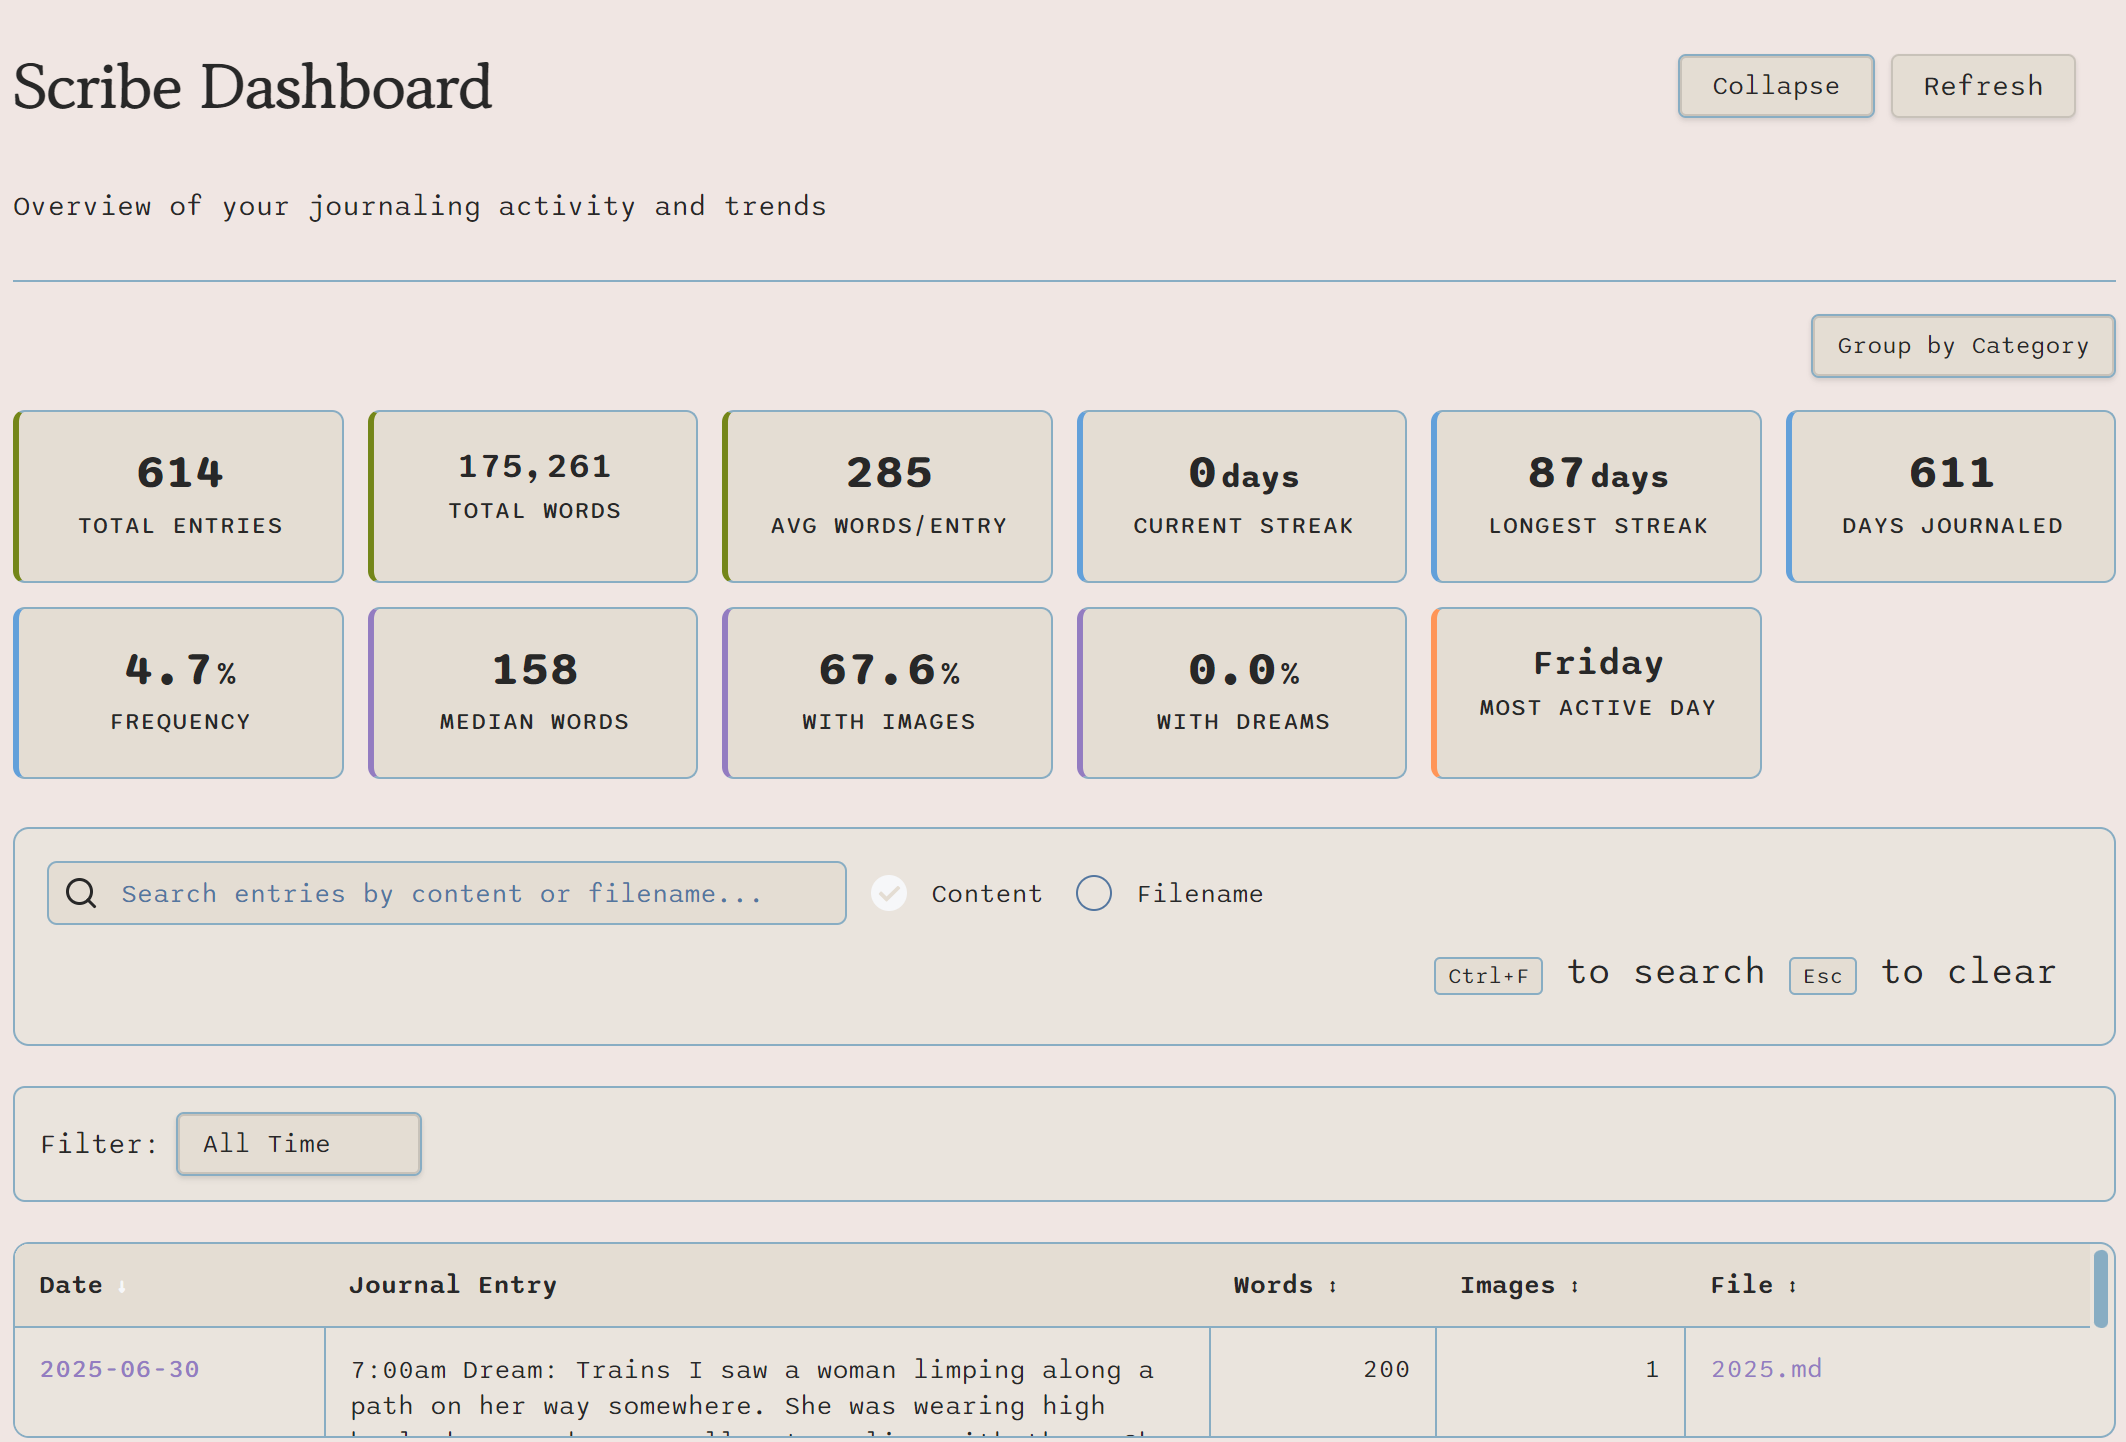
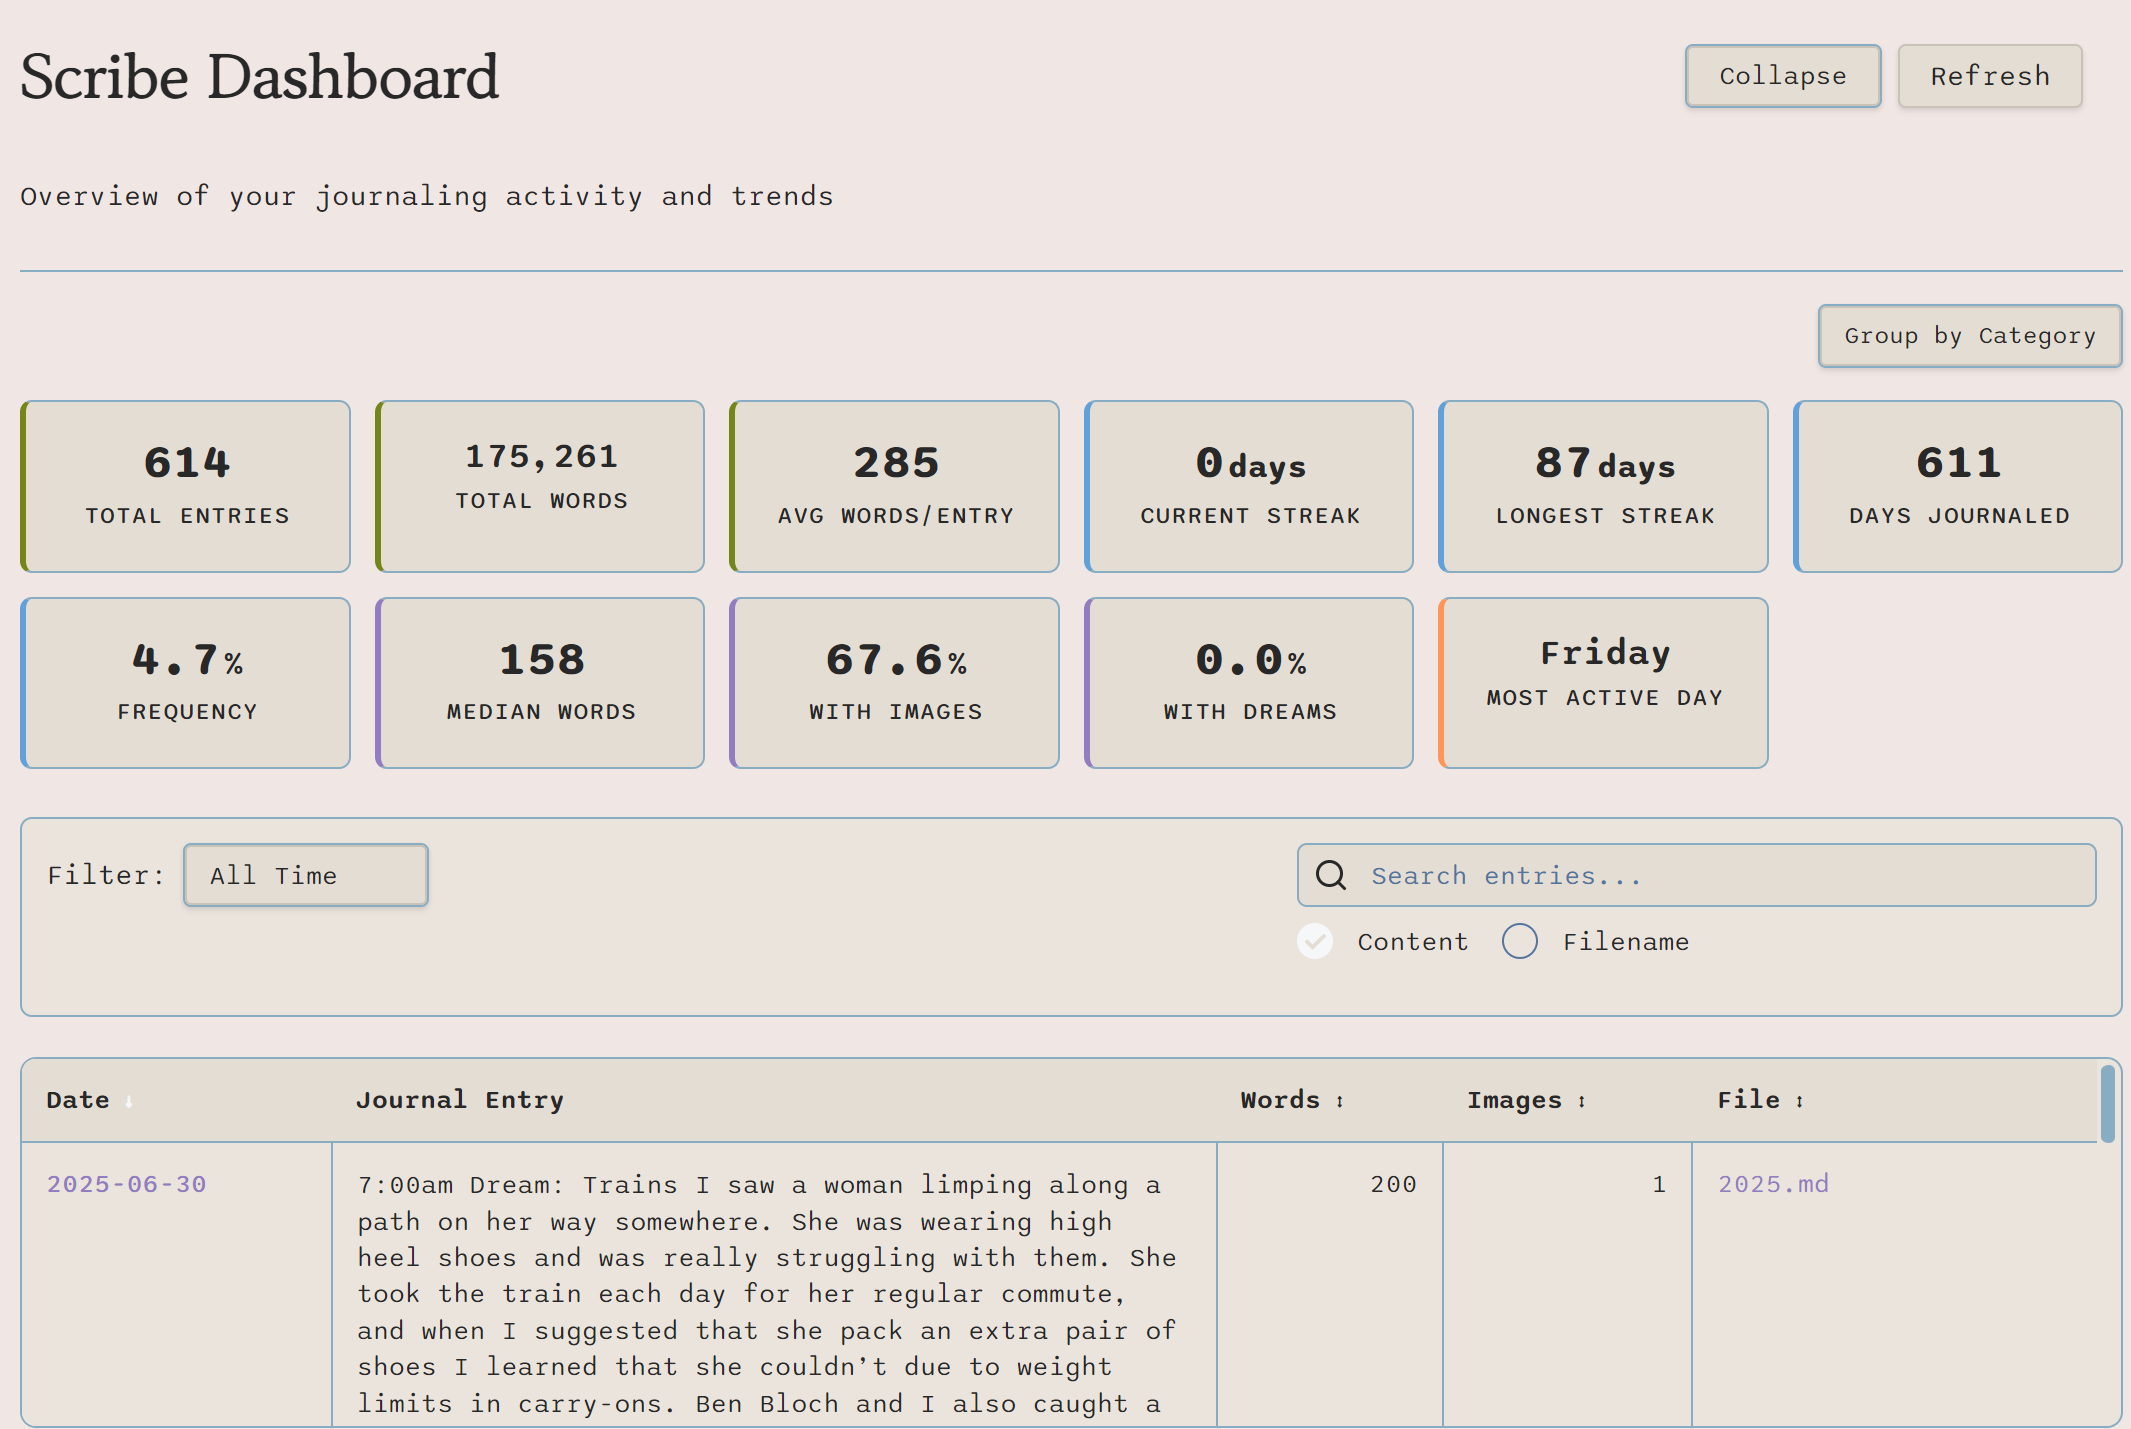
Integrate search into dashboard controls and ensure always visible
- Move search functionality from separate section into controls bar alongside date filter
- Create horizontal layout with filter on left, search on right
- Remove conditional visibility - search now always accessible regardless of header state
- Clean up redundant CSS rules for old standalone search section
- Update responsive design for new integrated layout
- Improve space efficiency and visual organization

diff --git a/src/views/DashboardView.ts b/src/views/DashboardView.ts
@@ -77,12 +77,7 @@ export class DashboardView extends ItemView {
             }
         }
         
-        // Render search section (only if header not collapsed)
-        if (!this.state.headerCollapsed) {
-            this.renderSearchSection(container);
-        }
-        
-        // Render controls
+        // Render controls (includes search if header not collapsed)
         this.renderControls(container);
         
         // Render table
@@ -171,18 +166,73 @@ export class DashboardView extends ItemView {
         });
     }
     
-    private renderSearchSection(container: HTMLElement): void {
-        const searchSection = container.createDiv('sfp-search-section');
+    
+    private updateSearchResultsDisplay(resultsElement: HTMLElement): void {
+        if (this.state.searchQuery) {
+            const count = this.state.searchResults.length;
+            resultsElement.textContent = `${count} result${count !== 1 ? 's' : ''} for "${this.state.searchQuery}"`;
+            resultsElement.classList.add('has-results');
+        } else {
+            resultsElement.textContent = '';
+            resultsElement.classList.remove('has-results');
+        }
+    }
+
+    private renderControls(container: HTMLElement): void {
+        const controls = container.createDiv('sfp-dashboard-controls');
         
+        // Left side: Date filter dropdown
+        const filterContainer = controls.createDiv('filter-container');
+        filterContainer.createEl('label', { text: 'Filter: ' });
+        
+        const select = filterContainer.createEl('select');
+        const filterOptions = [
+            { value: DateFilter.ALL_TIME, label: 'All Time' },
+            { value: DateFilter.TODAY, label: 'Today' },
+            { value: DateFilter.THIS_WEEK, label: 'This Week' },
+            { value: DateFilter.THIS_MONTH, label: 'This Month' },
+            { value: DateFilter.LAST_30_DAYS, label: 'Last 30 Days' },
+            { value: DateFilter.THIS_YEAR, label: 'This Year' }
+        ];
+        
+        filterOptions.forEach(option => {
+            const optionEl = select.createEl('option', { 
+                value: option.value, 
+                text: option.label 
+            });
+            if (option.value === this.state.currentFilter) {
+                optionEl.selected = true;
+            }
+        });
+        
+        select.addEventListener('change', () => {
+            this.state.currentFilter = select.value as DateFilter;
+            this.applyFiltersAndSearch();
+            this.renderTable(container);
+        });
+
+        // Right side: Search section (always visible)
+        this.renderSearchInControls(controls, container);
+        
+        // Add refresh event listener
+        container.addEventListener('refresh', () => {
+            this.refresh();
+        });
+        
+        // Add keyboard shortcuts
+        this.setupKeyboardShortcuts(select);
+    }
+
+    private renderSearchInControls(controls: HTMLElement, container: HTMLElement): void {
         // Search container
-        const searchContainer = searchSection.createDiv('sfp-search-container');
+        const searchContainer = controls.createDiv('sfp-search-container');
         
         // Search input wrapper
         const searchInputWrapper = searchContainer.createDiv('sfp-search-input-wrapper');
         
         // Create Obsidian's native SearchComponent
         const searchComponent = new SearchComponent(searchInputWrapper);
-        searchComponent.setPlaceholder('Search entries by content or filename...');
+        searchComponent.setPlaceholder('Search entries...');
         if (this.state.searchQuery) {
             searchComponent.setValue(this.state.searchQuery);
         }
@@ -208,16 +258,9 @@ export class DashboardView extends ItemView {
         });
         
         // Search results info
-        const searchResultsInfo = searchSection.createDiv('search-results-info');
+        const searchResultsInfo = searchContainer.createDiv('search-results-info');
         const resultsCount = searchResultsInfo.createDiv('search-results-count');
         this.updateSearchResultsDisplay(resultsCount);
-        
-        // Search shortcuts
-        const shortcuts = searchResultsInfo.createDiv('search-shortcuts');
-        shortcuts.innerHTML = `
-            <span class="shortcut-hint">Ctrl+F</span> to search
-            <span class="shortcut-hint">Esc</span> to clear
-        `;
         
         // Event listeners
         let searchTimeout: NodeJS.Timeout;
@@ -249,59 +292,6 @@ export class DashboardView extends ItemView {
         
         // Global keyboard shortcuts
         this.setupSearchKeyboardShortcuts(searchComponent.inputEl);
-    }
-    
-    private updateSearchResultsDisplay(resultsElement: HTMLElement): void {
-        if (this.state.searchQuery) {
-            const count = this.state.searchResults.length;
-            resultsElement.textContent = `${count} result${count !== 1 ? 's' : ''} for "${this.state.searchQuery}"`;
-            resultsElement.classList.add('has-results');
-        } else {
-            resultsElement.textContent = '';
-            resultsElement.classList.remove('has-results');
-        }
-    }
-
-    private renderControls(container: HTMLElement): void {
-        const controls = container.createDiv('sfp-dashboard-controls');
-        
-        // Date filter dropdown
-        const filterContainer = controls.createDiv('filter-container');
-        filterContainer.createEl('label', { text: 'Filter: ' });
-        
-        const select = filterContainer.createEl('select');
-        const filterOptions = [
-            { value: DateFilter.ALL_TIME, label: 'All Time' },
-            { value: DateFilter.TODAY, label: 'Today' },
-            { value: DateFilter.THIS_WEEK, label: 'This Week' },
-            { value: DateFilter.THIS_MONTH, label: 'This Month' },
-            { value: DateFilter.LAST_30_DAYS, label: 'Last 30 Days' },
-            { value: DateFilter.THIS_YEAR, label: 'This Year' }
-        ];
-        
-        filterOptions.forEach(option => {
-            const optionEl = select.createEl('option', { 
-                value: option.value, 
-                text: option.label 
-            });
-            if (option.value === this.state.currentFilter) {
-                optionEl.selected = true;
-            }
-        });
-        
-        select.addEventListener('change', () => {
-            this.state.currentFilter = select.value as DateFilter;
-            this.applyFiltersAndSearch();
-            this.renderTable(container);
-        });
-        
-        // Add refresh event listener
-        container.addEventListener('refresh', () => {
-            this.refresh();
-        });
-        
-        // Add keyboard shortcuts
-        this.setupKeyboardShortcuts(select);
     }
 
     private renderTable(container: HTMLElement): void {

diff --git a/styles.css b/styles.css
@@ -1687,87 +1687,6 @@
     font-style: italic;
 }
 
-/* Dashboard Search Styles */
-.sfp-search-section {
-    background: var(--background-secondary);
-    border: 1px solid var(--background-modifier-border);
-    border-radius: 8px;
-    padding: 16px;
-    margin-bottom: 20px;
-}
-
-.sfp-search-container {
-    display: flex;
-    gap: 12px;
-    align-items: center;
-    margin-bottom: 12px;
-    flex-wrap: wrap;
-}
-
-.sfp-search-input-wrapper {
-    flex: 1;
-    max-width: 400px;
-    min-width: 200px;
-}
-
-.sfp-search-options {
-    display: flex;
-    gap: 16px;
-    align-items: center;
-    flex-wrap: wrap;
-}
-
-.sfp-search-option {
-    display: flex;
-    align-items: center;
-    gap: 6px;
-    font-size: 13px;
-    color: var(--text-muted);
-}
-
-.sfp-search-option input[type="checkbox"] {
-    accent-color: var(--interactive-accent);
-}
-
-.sfp-search-option label {
-    cursor: pointer;
-    user-select: none;
-}
-
-.sfp-search-results-info {
-    display: flex;
-    justify-content: space-between;
-    align-items: center;
-    font-size: 13px;
-    color: var(--text-muted);
-    flex-wrap: wrap;
-    gap: 8px;
-}
-
-.sfp-search-results-count {
-    font-weight: 500;
-}
-
-.sfp-search-results-count.has-results {
-    color: var(--text-accent);
-}
-
-.sfp-search-shortcuts {
-    display: flex;
-    gap: 12px;
-    align-items: center;
-    flex-wrap: wrap;
-}
-
-.shortcut-hint {
-    background: var(--background-primary);
-    padding: 2px 6px;
-    border-radius: 3px;
-    font-size: 11px;
-    font-family: var(--font-monospace);
-    color: var(--text-muted);
-    border: 1px solid var(--background-modifier-border);
-}
 
 /* Search Result Highlighting */
 .highlight {
@@ -1852,13 +1771,13 @@
 }
 
 .sfp-dashboard-table .content-cell button {
-    background: none;
+    /*background: none;
     border: none;
     color: var(--text-accent);
     cursor: pointer;
     font-size: 12px;
     text-decoration: underline;
-    padding: 0;
+    padding: 0;*/
 }
 
 .sfp-dashboard-table .content-cell button:hover {
@@ -1991,7 +1910,8 @@
 .sfp-dashboard-controls {
     display: flex;
     justify-content: space-between;
-    align-items: center;
+    align-items: flex-start;
+    gap: 20px;
     margin-bottom: 20px;
     padding: 12px;
     background: var(--background-secondary);
@@ -2013,31 +1933,73 @@
     border-radius: 4px;
 }
 
+/* Search in controls styling */
+.sfp-dashboard-controls .sfp-search-container {
+    display: flex;
+    flex-direction: column;
+    gap: 8px;
+    flex: 1;
+    max-width: 400px;
+}
+
+.sfp-dashboard-controls .sfp-search-input-wrapper {
+    flex: 1;
+}
+
+.sfp-dashboard-controls .sfp-search-options {
+    display: flex;
+    gap: 16px;
+    align-items: center;
+    flex-wrap: wrap;
+}
+
+.sfp-dashboard-controls .sfp-search-option {
+    display: flex;
+    align-items: center;
+    gap: 6px;
+    font-size: 13px;
+    color: var(--text-muted);
+}
+
+.sfp-dashboard-controls .sfp-search-option input[type="checkbox"] {
+    accent-color: var(--interactive-accent);
+}
+
+.sfp-dashboard-controls .sfp-search-option label {
+    cursor: pointer;
+    user-select: none;
+}
+
+.sfp-dashboard-controls .search-results-info {
+    display: flex;
+    justify-content: flex-start;
+    align-items: center;
+    font-size: 13px;
+    color: var(--text-muted);
+}
+
+.sfp-dashboard-controls .search-results-count {
+    font-weight: 500;
+}
+
+.sfp-dashboard-controls .search-results-count.has-results {
+    color: var(--text-accent);
+}
+
 /* Responsive Design */
 @media (max-width: 768px) {
-    .search-container {
-        flex-direction: column;
-        align-items: stretch;
-    }
-    
-    .search-input-wrapper {
-        max-width: none;
-    }
-    
-    .search-options {
-        justify-content: center;
-    }
-    
-    .search-results-info {
-        flex-direction: column;
-        align-items: center;
-        text-align: center;
-    }
-    
-    .dashboard-controls {
+    .sfp-dashboard-controls {
         flex-direction: column;
         gap: 12px;
         align-items: stretch;
+    }
+    
+    .sfp-dashboard-controls .sfp-search-container {
+        max-width: none;
+    }
+    
+    .sfp-dashboard-controls .sfp-search-options {
+        justify-content: center;
     }
     
     .dashboard-table {
